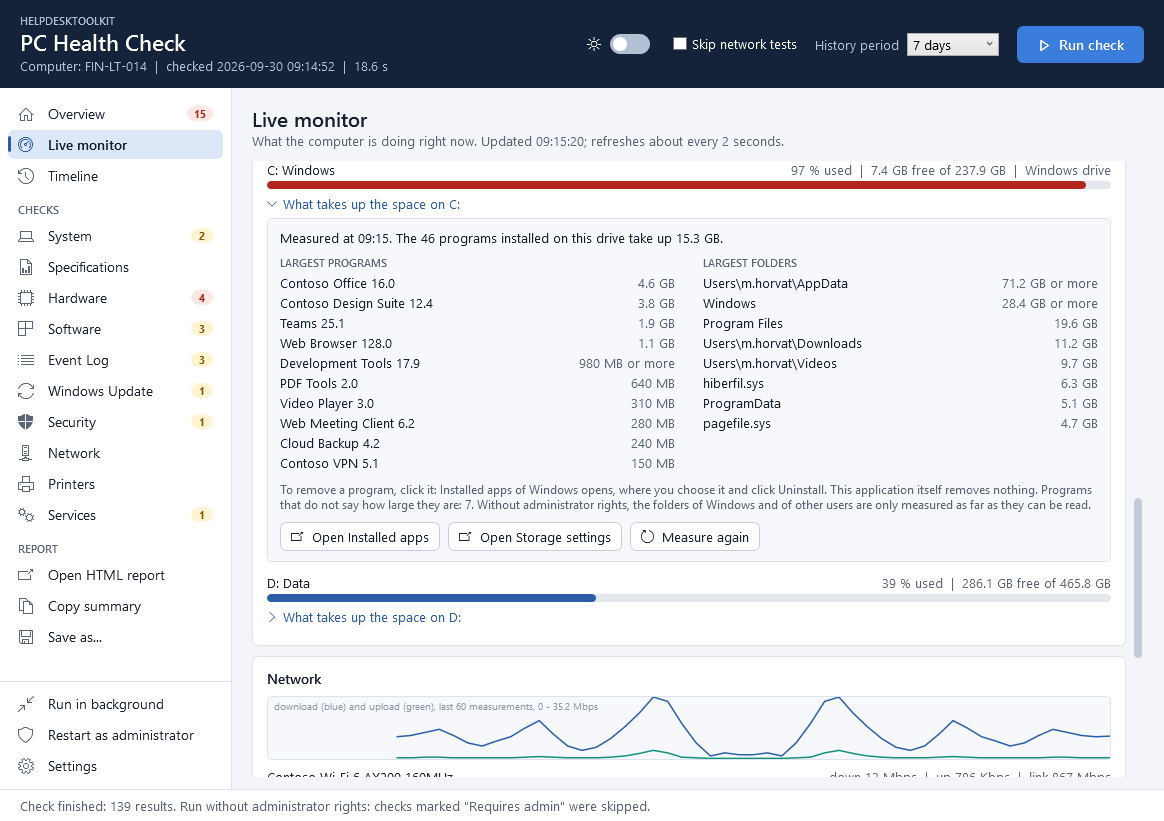
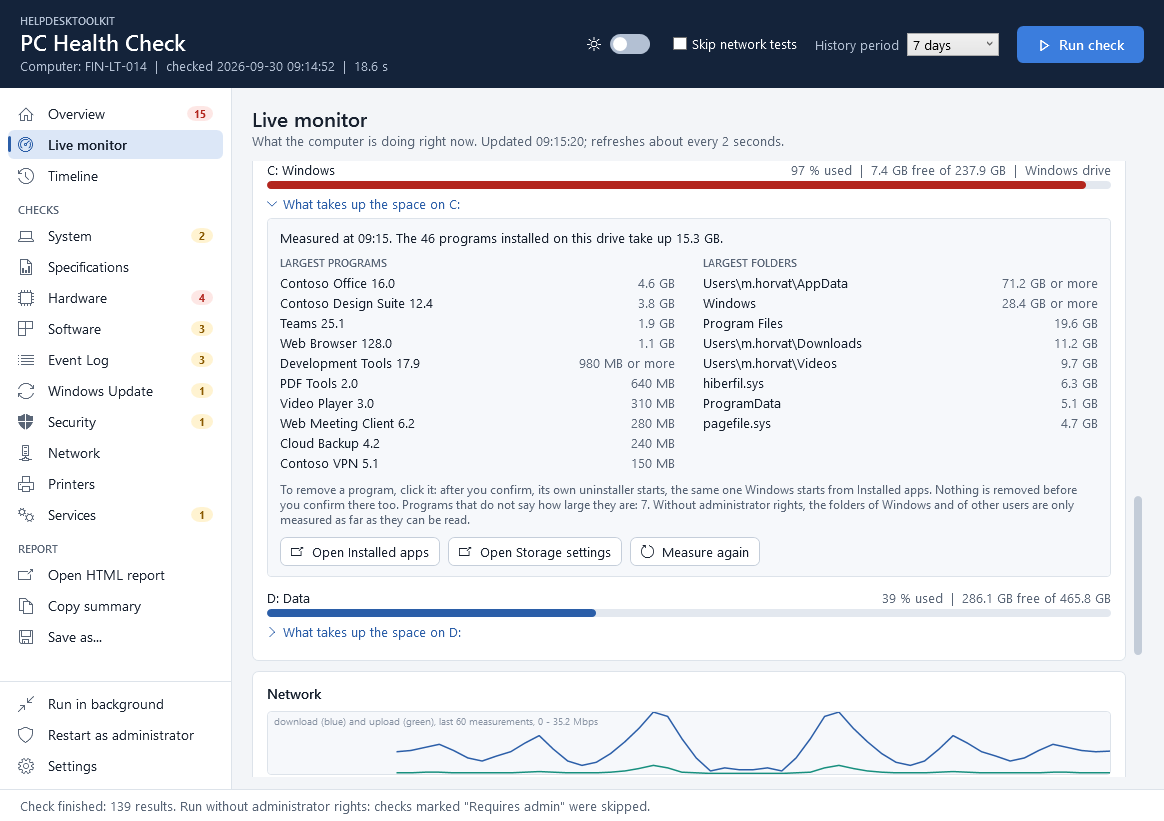
docs: describe the help links, the event numbers and uninstalling; renew the screenshots

Changed region(s): [[0.2165, 0.5786, 0.9588, 0.944]]

diff --git a/README.md b/README.md
@@ -10,9 +10,11 @@ A diagnostic tool for Windows PCs, built for helpdesk and IT support work. One c
 one command checks the state of the computer and produces a clear report with the
 problems it found and what to do about them.
 
-- **Read-only.** It only reads information and never changes anything on the system.
-  What it writes is its own: its settings, the reports and, when you tick "Start with
-  Windows", one shortcut in your Startup folder.
+- **Read-only.** The checks only read information and never change anything on the
+  system. What the tool writes is its own: its settings, the reports and, when you
+  tick "Start with Windows", one shortcut in your Startup folder. The one thing it can
+  start that changes the computer is the uninstaller of a program you click in the
+  disk usage list, and only after you have confirmed it.
 - **No administrator rights needed.** Checks that need them are skipped and marked "Requires admin".
 - **Nothing to install besides the tool.** It is written in PowerShell and uses what Windows already has.
 
@@ -124,6 +126,14 @@ number of days of history) are remembered for the next start as well.
   search, the report), they come as Critical, Warning, OK, Info.
 - **Search** looks through all results at once, and the status filter narrows the
   list down, for example to the problems only.
+- **What this means and how to fix it:** below the recommended fix of every Warning
+  and Critical result is a link to the page of Microsoft that explains the problem
+  (free up drive space, troubleshoot Windows Update, blue screens, firewall, printers
+  and so on); a problem without such a page gets a web search for its name.
+- **Events with their numbers:** the results of the event log list every kind of
+  error under "Show more", with its source, its event number and how often it
+  happened ("Event 10016: DistributedCOM (45x)"). A click on a line searches the web
+  for exactly that event, which is how one finds out what it means and how it is fixed.
 - **Copy summary** puts a short text version of the result on the clipboard, ready to
   paste into a ticket or an e-mail.
 - **Open HTML report** saves the report and opens it in the browser; **Save as...**
@@ -231,9 +241,11 @@ computer is doing right now:
   every physical disk, and the used space of every drive letter (the meter turns orange
   and red by the same limits as the disk space check)
 - **What takes up the space:** every drive letter can be opened to see its largest
-  installed programs and folders. A click on a program opens the *Installed apps* page
-  of Windows, where it is uninstalled, and copies its name for the search field there;
-  a button opens the page where files are cleaned up
+  installed programs and folders. A click on a program asks whether to uninstall it
+  and then starts the program's own uninstaller, the one Windows starts from
+  *Installed apps*; a program without one (an app from the Store) opens that page
+  instead, with its name copied for the search field. A button opens the page where
+  files are cleaned up
 - **Network:** download and upload rate with a history graph, the link speed of every
   adapter, and how quickly the router and the internet answer a ping. The **Internet**
   tile at the top shows the answer time, its average and the share of lost answers,
@@ -261,8 +273,12 @@ Tools at the top of the page:
   several measurements in a row, or a graphics card gets hotter than 85 °C. A single
   peak is normal and raises no alert.
 
-There is deliberately no button that ends or uninstalls a program: the tool only reads.
-It shows what to remove and opens the place in Windows where that is done.
+There is deliberately no button that ends a program, and nothing is removed by the tool
+itself: it shows what takes up the space, and for a program it starts the uninstaller
+the maker of the program provided, after a question. That uninstaller asks again, and
+asks Windows for administrator rights where it needs them. A program that is installed
+for one user only is never started from a window that runs with administrator rights;
+its page in Windows is opened instead.
 
 ![The Live monitor page with the advice for a full memory](docs/screenshot-monitor.png)
 
@@ -485,7 +501,7 @@ real connection between two computers.
 
 ## Configuration
 
-Five data files control the behaviour; no code has to be changed:
+Six data files control the behaviour; no code has to be changed:
 
 - [`HelpdeskToolkit/Config/Thresholds.psd1`](HelpdeskToolkit/Config/Thresholds.psd1):
   the limits for Warning and Critical (for example free disk space below 15 % and 5 %),
@@ -504,6 +520,11 @@ Five data files control the behaviour; no code has to be changed:
   the programs whose maker no longer releases security updates, with the date their
   support ended (taken from the lifecycle pages of the makers; add a line when another
   version runs out).
+
+- [`HelpdeskToolkit/Config/Help.psd1`](HelpdeskToolkit/Config/Help.psd1):
+  the page that explains each problem, and the address of the web search used for
+  everything else. Only the name of a check, or the source and number of an event,
+  ever becomes part of an address; the value of a result never does.
 
 The "Typical" values are rules of thumb for a healthy office PC. They are shown for
 comparison only and never affect the status.
@@ -595,6 +616,7 @@ The steps for a release, the PowerShell Gallery and winget are written down in
 .\tools\New-SampleReport.ps1        # docs\sample-report.html and .json (fictional data)
 .\tools\New-Screenshot.ps1          # docs\screenshot-*.png and docs\demo.gif
 .\tools\New-AppIcon.ps1             # the application icon
+.\tools\Test-HelpLink.ps1           # asks every page in Config\Help.psd1 whether it still exists
 ```
 
 ## License

diff --git a/CHANGELOG.md b/CHANGELOG.md
@@ -55,6 +55,11 @@ The first public version. It will be released as 1.0.0.
 - Overview with the problems and their fixes, a health score from 0 to 100 and the
   changes since the previous check of the same computer.
 - A button next to a fix opens the page of Windows where the fix is made.
+- Below the fix of every problem, a link to the page of Microsoft that explains it,
+  or a web search for its name. The results of the event log list every kind of
+  event with its event number under "Show more"; a click looks that event up.
+- A click on a program in "What takes up the space" starts the program's own
+  uninstaller, after a question; a program without one opens Installed apps.
 - A side bar in the manner of Windows 11: an icon for every page, the check categories
   under a heading of their own, a bar that marks the open page, the number of problems
   per category, and the report actions, the rights and the settings below.
